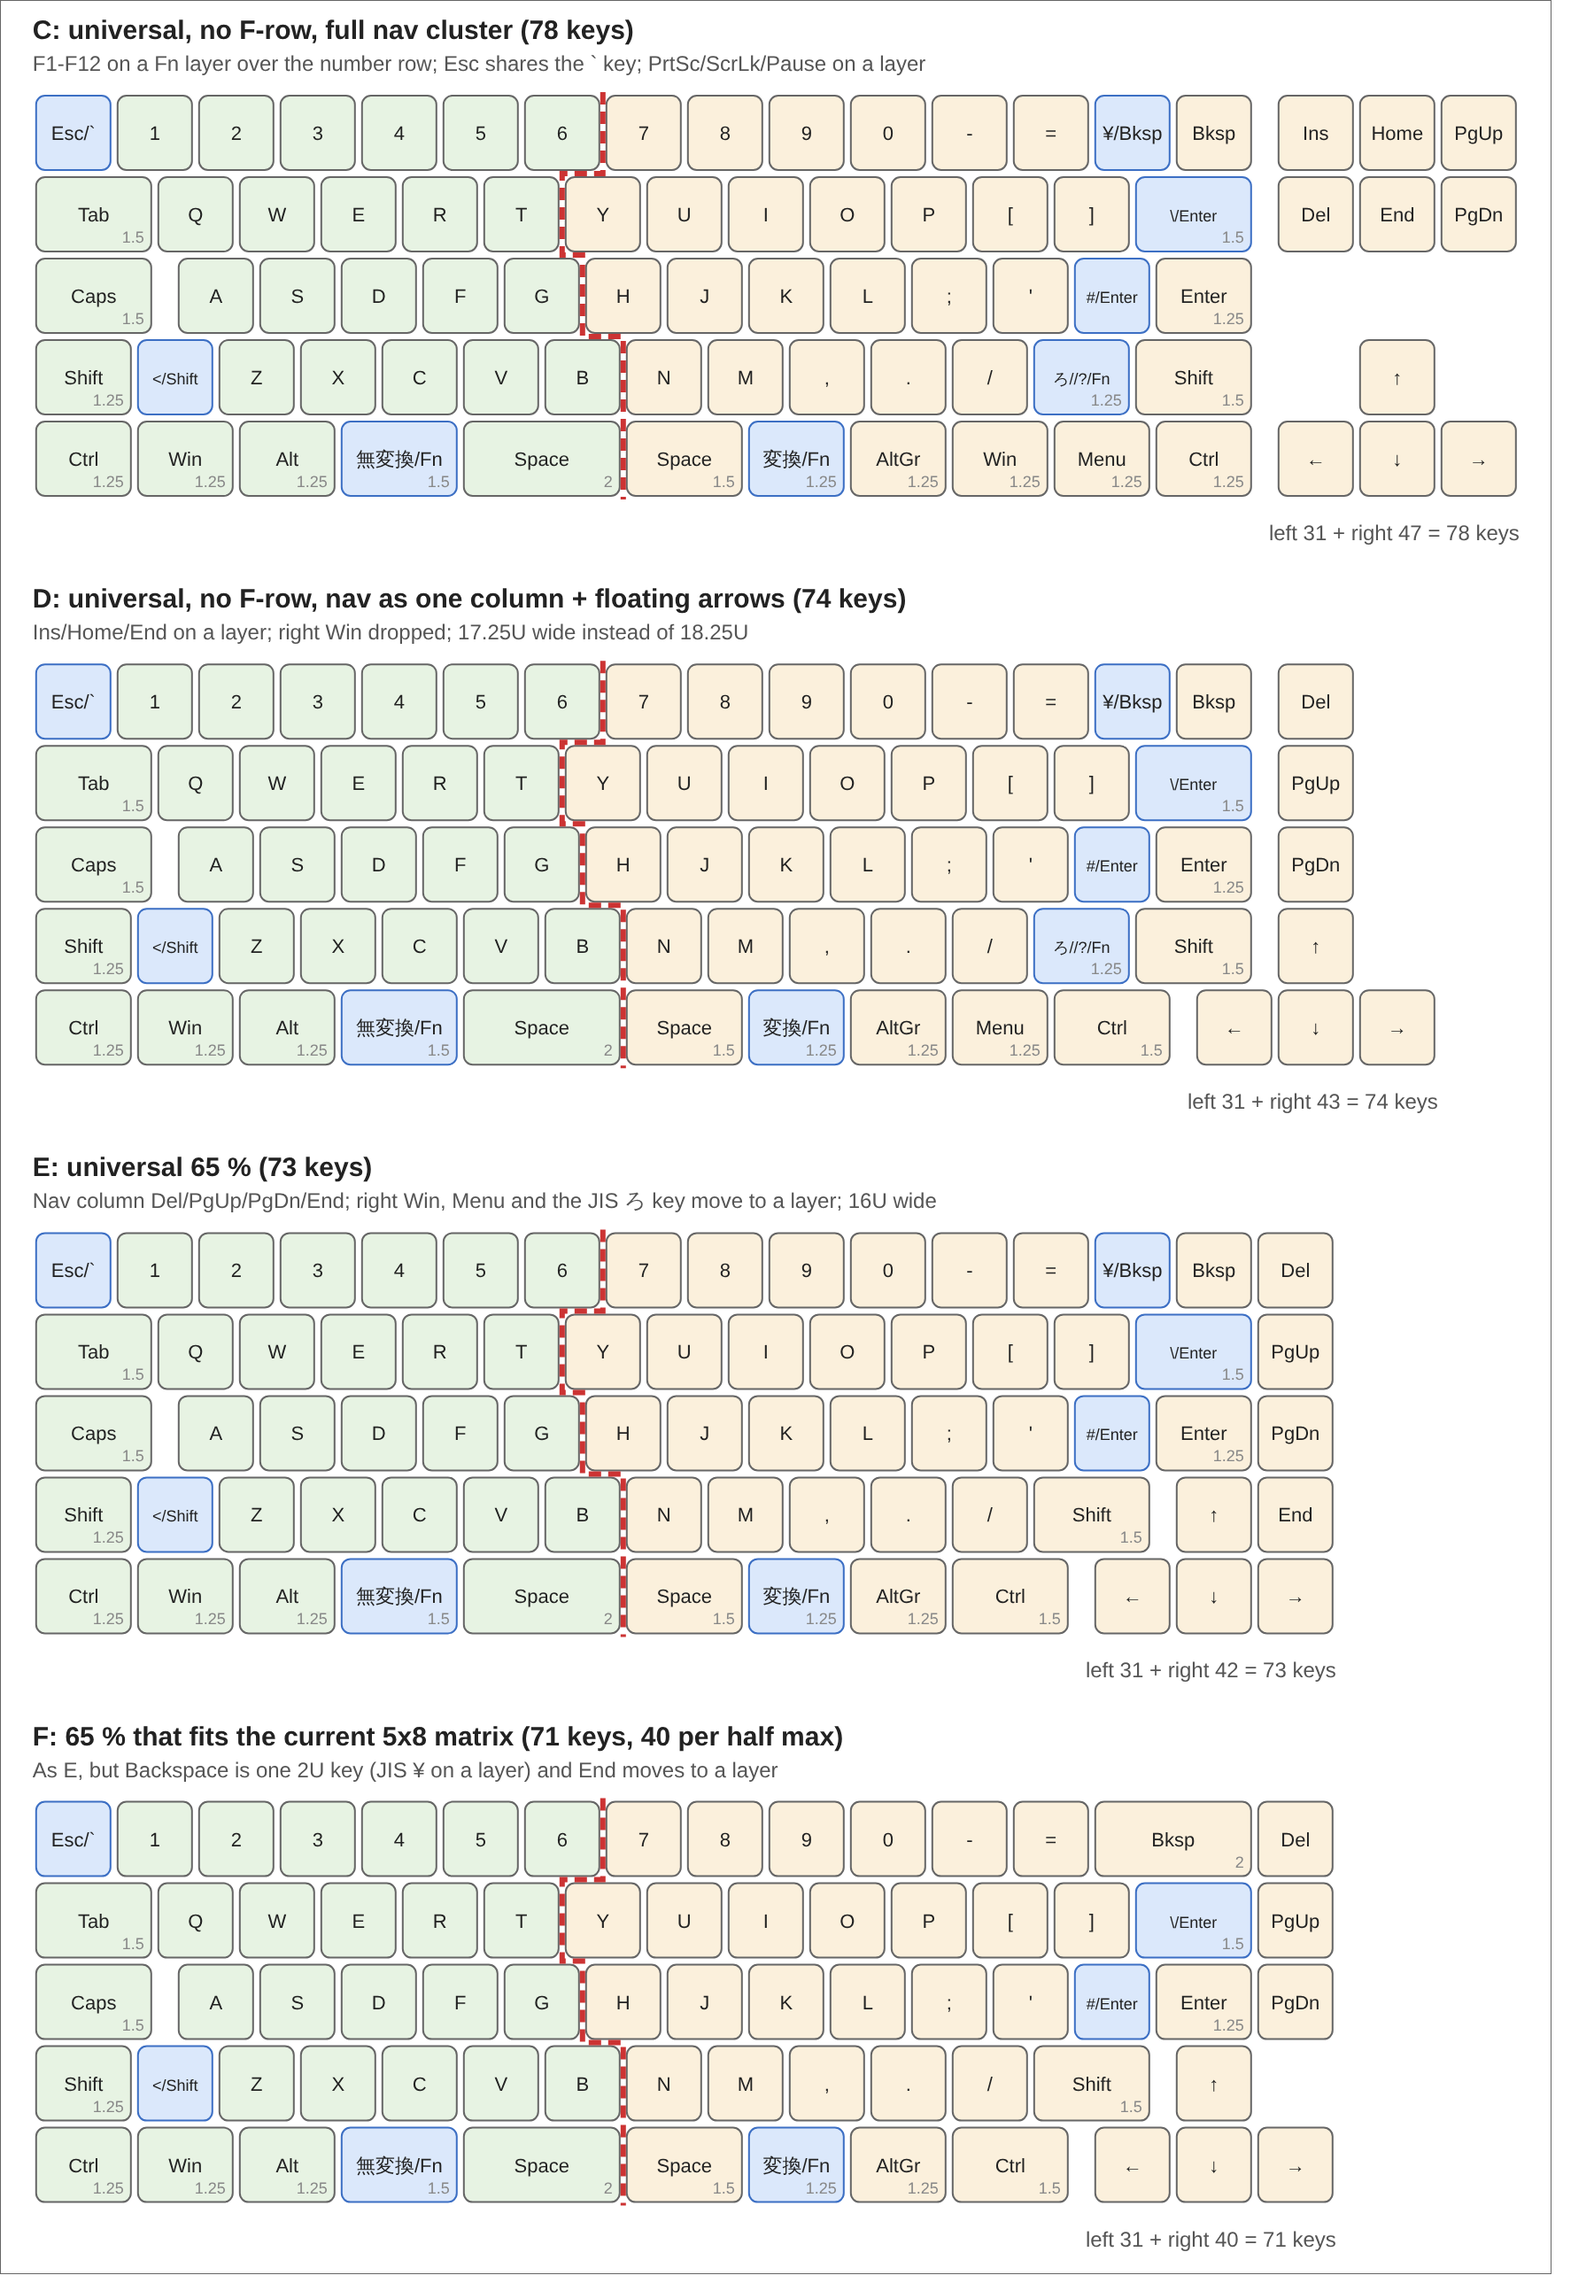
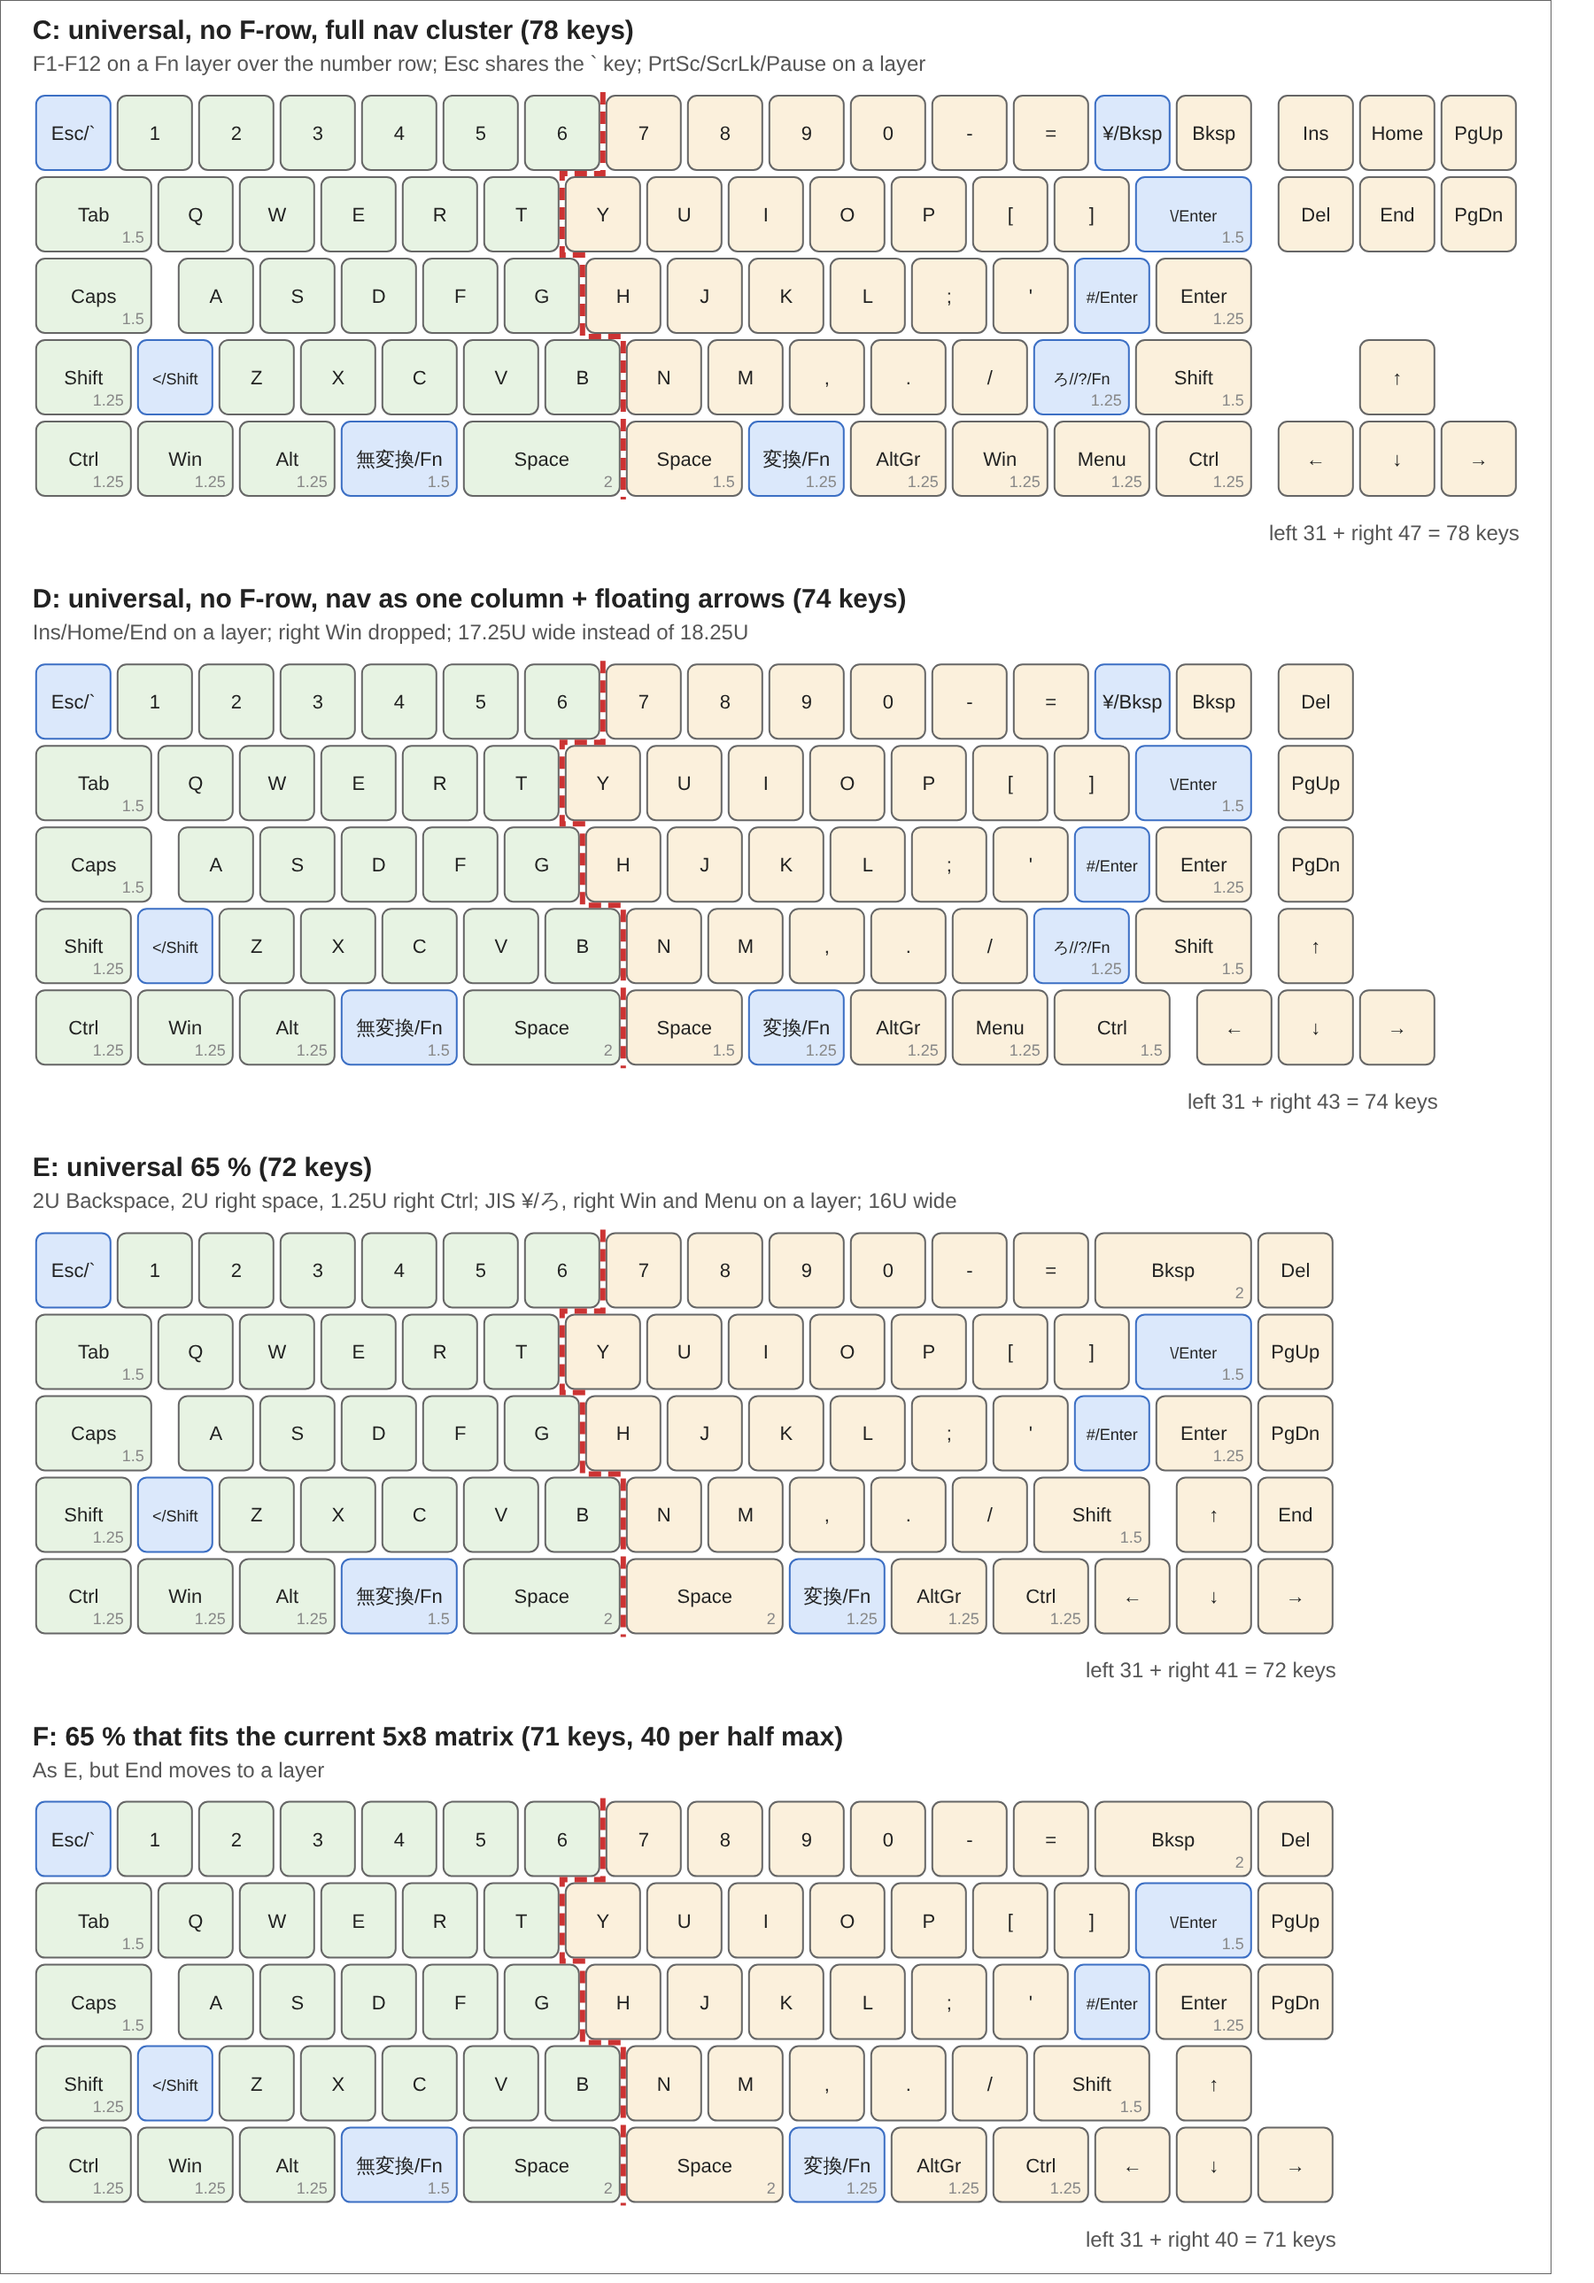
Layout study: E with 2U Backspace, 2U right space, 1.25U right Ctrl
E is now 72 keys (31 + 41). F is E with End on a layer (71 keys, 31 + 40).

Claude-Session: https://claude.ai/code/session_01U989dwa8qfqDTeXimD42CV

diff --git a/docs/layout_study/tkl_layouts.py b/docs/layout_study/tkl_layouts.py
@@ -105,12 +105,12 @@ B_ROWS = {k: v for k, v in LAYOUTS[3]["rows"].items() if k != "f"}
 B_ROWS["n"] = [(1, "Esc|`")] + NUM[1:] + [(1, "¥|Bksp"), (1, "Bksp")]
 
 # 65 %: main block plus one nav column = 16U; arrows tucked into shift/bottom rows
-R65_N = B_ROWS["n"] + [(1, "Del")]
+R65_N = B_ROWS["n"][:13] + [(2, "Bksp"), (1, "Del")]
 R65_T = B_ROWS["t"] + [(1, "PgUp")]
 R65_C = B_ROWS["c"] + [(1, "PgDn")]
 R65_S = [(1.25, "Shift"), (1, "<|Shift")] + SHIFT + [(1.5, "Shift"), ("gap", .25), (1, "↑"), (1, "End")]
 R65_B = [(1.25, "Ctrl"), (1.25, "Win"), (1.25, "Alt"), (1.5, "無変換|Fn"), (2, "Space"),
-         (1.5, "Space"), (1.25, "変換|Fn"), (1.25, "AltGr"), (1.5, "Ctrl"), ("gap", .25),
+         (2, "Space"), (1.25, "変換|Fn"), (1.25, "AltGr"), (1.25, "Ctrl"),
          (1, "←"), (1, "↓"), (1, "→")]
 
 COMPACT = [
@@ -135,16 +135,16 @@ COMPACT = [
         "split": True,
     },
     {
-        "name": "E: universal 65 % (73 keys)",
-        "note": "Nav column Del/PgUp/PgDn/End; right Win, Menu and the JIS ろ key move to a layer; 16U wide",
+        "name": "E: universal 65 % (72 keys)",
+        "note": "2U Backspace, 2U right space, 1.25U right Ctrl; JIS ¥/ろ, right Win and Menu on a layer; 16U wide",
         "rows": {"n": R65_N, "t": R65_T, "c": R65_C, "s": R65_S, "b": R65_B},
         "nav": [], "main_w": 16,
         "split": True,
     },
     {
         "name": "F: 65 % that fits the current 5x8 matrix (71 keys, 40 per half max)",
-        "note": "As E, but Backspace is one 2U key (JIS ¥ on a layer) and End moves to a layer",
-        "rows": {"n": B_ROWS["n"][:13] + [(2, "Bksp"), (1, "Del")], "t": R65_T, "c": R65_C,
+        "note": "As E, but End moves to a layer",
+        "rows": {"n": R65_N, "t": R65_T, "c": R65_C,
                  "s": R65_S[:-1] + [("gap", 1)], "b": R65_B},
         "nav": [], "main_w": 16,
         "split": True,
